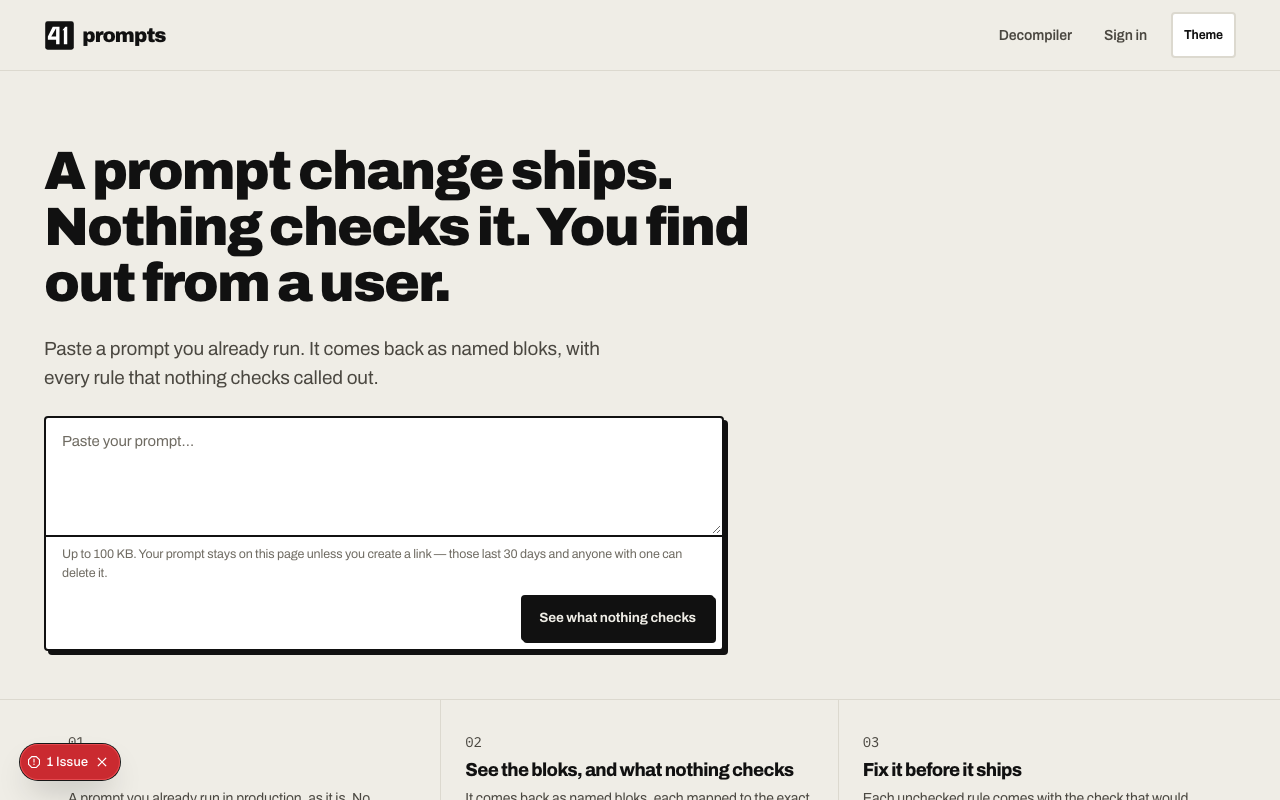
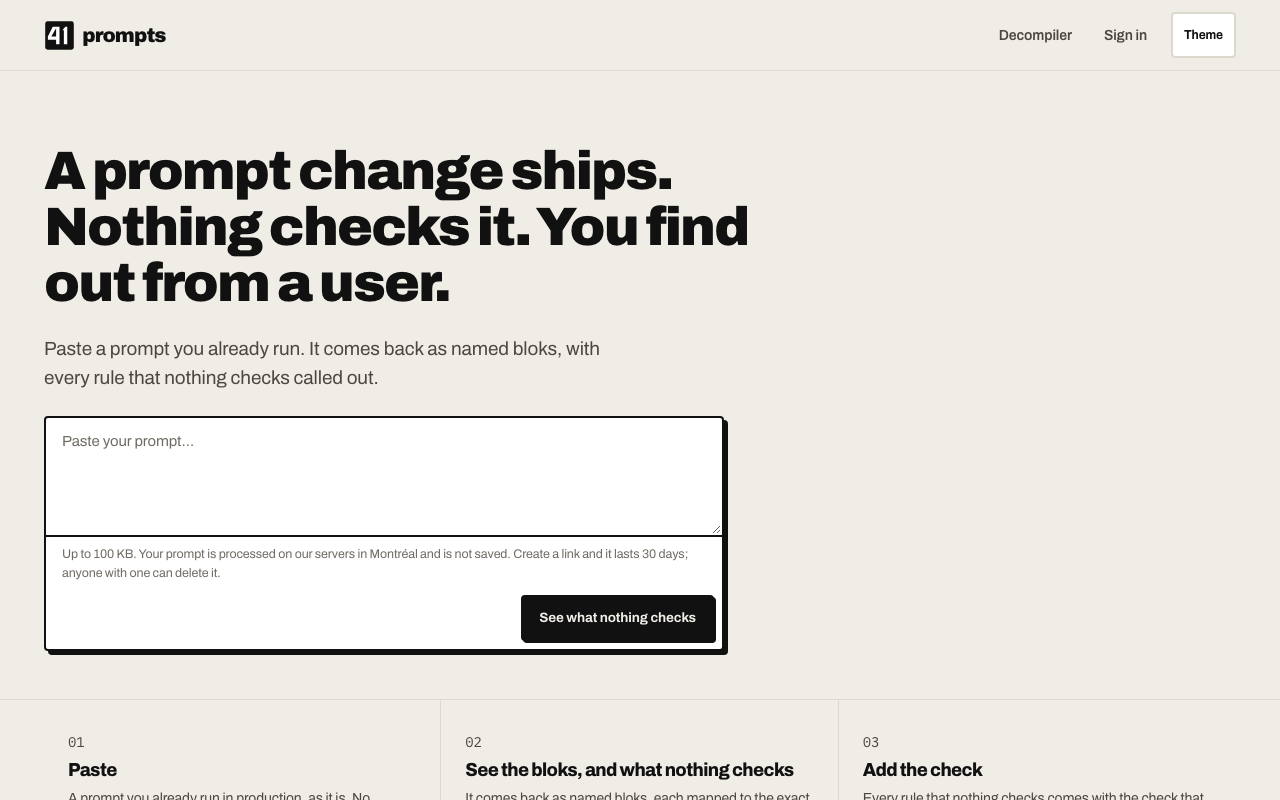
fix(copy): "Add the check", and one line under both textareas
Strip 03 loses "Fix it before it ships". Both objections were upheld and the
deploy-path one was the worse: there is no CI integration, no SDK check, nothing
that could block a ship until Stage 5, so the phrase claimed a position in the
workflow rather than overstating a feature.

  03 — Add the check
  Every rule that nothing checks comes with the check that would catch it, named
  in plain words. You add it where your tests already live.

The three headings now read Paste → See the bloks, and what nothing checks → Add
the check: three true things, the third plainly the reader's own work. The
previous set read as three things the product does.

"Named in plain words" is exact — ADR-003 requires check kinds to display as
plain phrases and the suggestion is literally `Add a "one of the allowed values"
check.` "Where your tests already live" is the other half: we do not host tests,
run them, or sit between the reader and their deploy.

The urgency it gives up was borrowed against a capability we do not have.

And the line under /decompile's textarea now matches the landing page's word for
word. The two differed for a day because the Montréal sentence was ruled for the
landing line specifically — an artefact of how two rulings were written, not a
decision. Somebody arriving at /decompile directly deserves the same specificity.

Visual baselines regenerated, after re-checking the image still reproduces the
unchanged gallery baselines.

Changed region(s): [[0.0625, 0.6875, 0.5312, 0.7188], [0.6562, 0.9375, 0.9375, 1.0], [0.0, 0.9062, 0.0938, 1.0]]

diff --git a/apps/web/app/decompile/decompile-view.tsx b/apps/web/app/decompile/decompile-view.tsx
@@ -111,7 +111,13 @@ export function DecompileView({
           <Button type="submit" name="sample" value="1" disabled={pending}>
             Use a sample prompt
           </Button>
-          <span className="decompile-limit">Up to {kilobytes(MAX_INPUT_BYTES)}. Your prompt is not saved.</span>
+          {/* Word for word the line under the landing page's ask bar. The difference between them was
+              an artefact of how two rulings were written, not a decision — somebody arriving here
+              directly deserves the same specificity as somebody arriving from `/`. */}
+          <span className="decompile-limit">
+            Up to {kilobytes(MAX_INPUT_BYTES)}. Your prompt is processed on our servers in Montréal
+            and is not saved. Create a link and it lasts 30 days; anyone with one can delete it.
+          </span>
         </div>
       </form>
 

diff --git a/apps/web/app/page.tsx b/apps/web/app/page.tsx
@@ -90,10 +90,10 @@ export default function HomePage() {
             </li>
             <li className="strip-step">
               <p className="strip-number">03</p>
-              <h2>Fix it before it ships</h2>
+              <h2>Add the check</h2>
               <p>
-                Each unchecked rule comes with the check that would catch it. You make the change —
-                there is nothing to install and nothing to sign up for.
+                Every rule that nothing checks comes with the check that would catch it, named in
+                plain words. You add it where your tests already live.
               </p>
             </li>
           </ol>

diff --git a/docs/reports/host-split-report.md b/docs/reports/host-split-report.md
@@ -147,33 +147,42 @@ decision 1). The line under the ask bar now reads:
 The middle sentence is verbatim as ruled. The rest keeps the cap and the link facts, with "those"
 repointed to a working antecedent.
 
-**One consequence worth a look.** The two lines under the two textareas now differ — the landing page
-names Montréal, `/decompile` says only "Your prompt is not saved". That follows the rulings literally
-(the Montréal sentence was ruled for the landing line specifically) and it is defensible, since the
-landing page is the first touch. Say the word if they should be identical.
+**The same line now appears under both textareas.** They differed for a day, because the Montréal
+sentence was ruled for the landing line specifically — an artefact of how two rulings were written
+rather than a decision, and ruled out on 2026-09-12: somebody arriving at `/decompile` directly
+deserves the same specificity as somebody arriving from `/`.
 
-### Strip 03 — not touched, awaiting a ruling
+### Strip 03 — replaced
 
-Current heading and body:
+Was:
 
 > **03 — Fix it before it ships**
 > Each unchecked rule comes with the check that would catch it. You make the change — there is nothing
 > to install and nothing to sign up for.
 
-**The objection.** Two things, and the body only answers one of them.
+Now:
 
-1. *"Fix it"* is an imperative that reads as a product capability. The product does not fix anything:
-   it lists rules with no check and names the check that would catch each one. The body's "You make
-   the change" corrects this — but a reader scanning only the three headings gets **Paste → See the
-   bloks → Fix it before it ships**, which reads as three things the product does, and the third is
-   the reader's own work done somewhere else entirely.
-2. *"before it ships"* implies we sit in the deploy path. We do not. There is no CI integration, no
-   SDK check, nothing that could block a ship — that is Stage 5. The phrase promises a position in the
-   workflow that the product has not got.
+> **03 — Add the check**
+> Every rule that nothing checks comes with the check that would catch it, named in plain words. You
+> add it where your tests already live.
 
-**Why it was left rather than rewritten:** the heading's honest version is weaker as copy, and which
-of the two problems matters more is a positioning call. Something like "See what to fix" keeps the
-scan honest and loses the urgency; "Change it yourself" is accurate and flat.
+Both objections were upheld, and **"before it ships" was the worse of the two**: it claimed a place in
+the deploy path we do not occupy until Stage 5. There is no CI integration, no SDK check, nothing that
+could block a ship — so the phrase promised a position in the workflow rather than overstating a
+feature, which is the harder kind of claim to walk back.
+
+The heading also fixes the scan. Three headings read in isolation now give **Paste → See the bloks,
+and what nothing checks → Add the check**, which is three true things, the third of them plainly the
+reader's own work. The previous set read as three things the product does.
+
+"Named in plain words" is exact rather than decorative: ADR-003 requires check kinds to display as
+plain phrases, and the detector's suggestion is literally `Add a "one of the allowed values" check.`
+"Where your tests already live" is the other half of the same honesty — we do not host tests, run
+them, or sit between the reader and their deploy.
+
+**What it gives up, recorded because it was a real trade:** the urgency of "before it ships". That
+urgency was borrowed against a capability we do not have, which is the only reason losing it is
+acceptable.
 
 ### What passed
 
